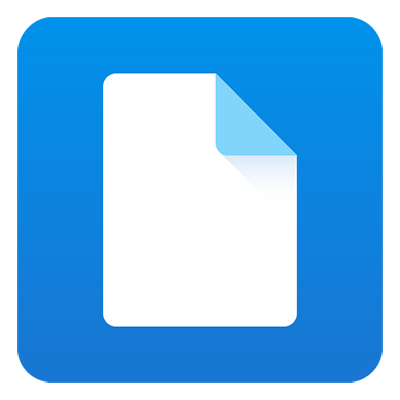
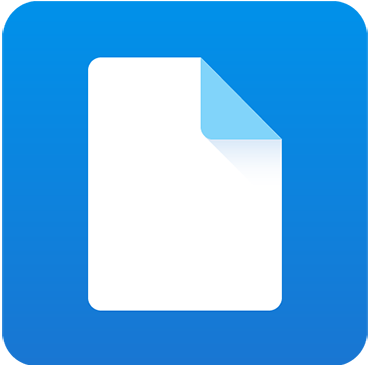
updated image holders and add onclick listner for the image view

Changed region(s): [[0.0, 0.0, 1.0, 1.0], [0.2378, 0.1507, 0.773, 0.874]]

diff --git a/view/src/js/ui/fileHodler.js b/view/src/js/ui/fileHodler.js
@@ -2,10 +2,14 @@ import React from 'react'
 import ShareUI from './share'
 
 class FileHodler extends React.Component{
+    onClickImage(event){
+        event.preventDefault()
+        window.open(this.props.href,'popUpWindow','height=400,width=600,left=10,top=10,,scrollbars=yes,menubar=no')
+    }
     render(){
         return(
             <div id = "singleFileView">
-                <img src = {this.props.imageSrc}/>
+                <img src = {this.props.imageSrc} onClick={this.onClickImage.bind(this)}/>
                 <ShareUI index={this.props.index}/>
                 <label id="nameText"> {this.props.name} </label>
             </div>

diff --git a/view/src/js/index.js b/view/src/js/index.js
@@ -50,7 +50,7 @@ class Main extends React.Component{
                             else if(type === "mp3" || type === "mp4" ) src = path+ `${type}.png`
                             else if(type === "docx") src = path+ `${type}.png`
                             else src = path + `${any}.png`
-                            return(<FileHodler key = {index} index = {index} imageSrc={src} name = {file.name}/>)
+                            return(<FileHodler key = {index} index = {index} imageSrc={src} name = {file.name} href = {ipfsLocalUrl+file.hash}/>)
                         })}
                     </div>
                 </div>

diff --git a/view/src/css/index.css b/view/src/css/index.css
@@ -43,7 +43,7 @@ img {
     height: 70%;
     width: 80%;
     border-radius: 8px;
-    padding: 0.4%;
+    padding: 0.5%;
     box-shadow: 0 10px 16px 0 rgba(0,0,0,0.2),0 6px 20px 0 rgba(0,0,0,0.19) !important;
     position: relative;
     margin: 1%;
